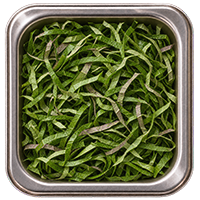
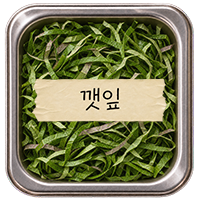
라벨 이미지 추가

Changed region(s): [[0.15, 0.39, 0.84, 0.63]]

diff --git a/style.css b/style.css
@@ -23,17 +23,25 @@ button {
 }
 body {
   background: #393a36;
+  margin: 0;
 }
 .app {
   width: 100%;
+  max-width: 430px;
   min-height: 100svh;
   height: 100svh;
+
+  margin: 0 auto;
   position: relative;
-  overflow: hidden;
-  background: #b4afa5 url("images/background.png") center center/cover no-repeat;
+
+  background-color: #000;
+  background-image: url("images/background.png");
+  background-position: center top;
+  background-repeat: no-repeat;
+  background-size: 100% 100%;
+
   display: flex;
   flex-direction: column;
-  padding: clamp(8px, 1.2vh, 16px) clamp(12px, 2vw, 32px) 8px;
 }
 .topbar {
   height: clamp(30px, 6vh, 100px);
@@ -596,6 +604,7 @@ body {
     gap: 2px;
   }
   .tray-item span {
+    display: none;
     font-size: 9px;
   }
   .bowl-frame {
@@ -651,10 +660,7 @@ body {
 }
 
 /* 파란글자 오류 */
-.tray-item,
-.tray-item span {
-  color: #242922 !important;
-}
+
 
 .result .controls button {
   color: #242922 !important;

diff --git a/index.html b/index.html
@@ -61,7 +61,10 @@
           >나만의 포케 자랑하기</a
         >
         <section class="honor-section" aria-labelledby="honorTitle">
-          <h2 id="honorTitle">🏆 <img src="images/honortitle.png" alt="명예의 포케 전당" /> 🏆</h2>
+          <h2 id="honorTitle">
+            <!-- <img src="images/honortitle.png" alt="명예의 포케 전당" /> -->
+            명예의 포케 전당🏆
+          </h2>
           <div id="honorGrid" class="honor-grid" aria-live="polite"></div>
           <p id="honorEmpty" class="honor-empty hidden">아직 등록된 포케 이미지가 없어요.</p>
           <div id="honorSentinel" class="honor-sentinel" aria-hidden="true"></div>

diff --git a/game.js b/game.js
@@ -190,9 +190,9 @@ function draw() {
       img.alt = "";
       img.src = item.tray;
       img.onerror = () => { btn.classList.add("missing"); img.alt = "이미지 없음"; };
-      const label = document.createElement("span");
-      label.textContent = item.name;
-      btn.append(img, label);
+      // const label = document.createElement("span");
+      // label.textContent = item.name;
+      btn.append(img);
       btn.addEventListener("pointerdown", (ev) => startNew(ev, id));
       grid.appendChild(btn);
       loadImage(item.food);
